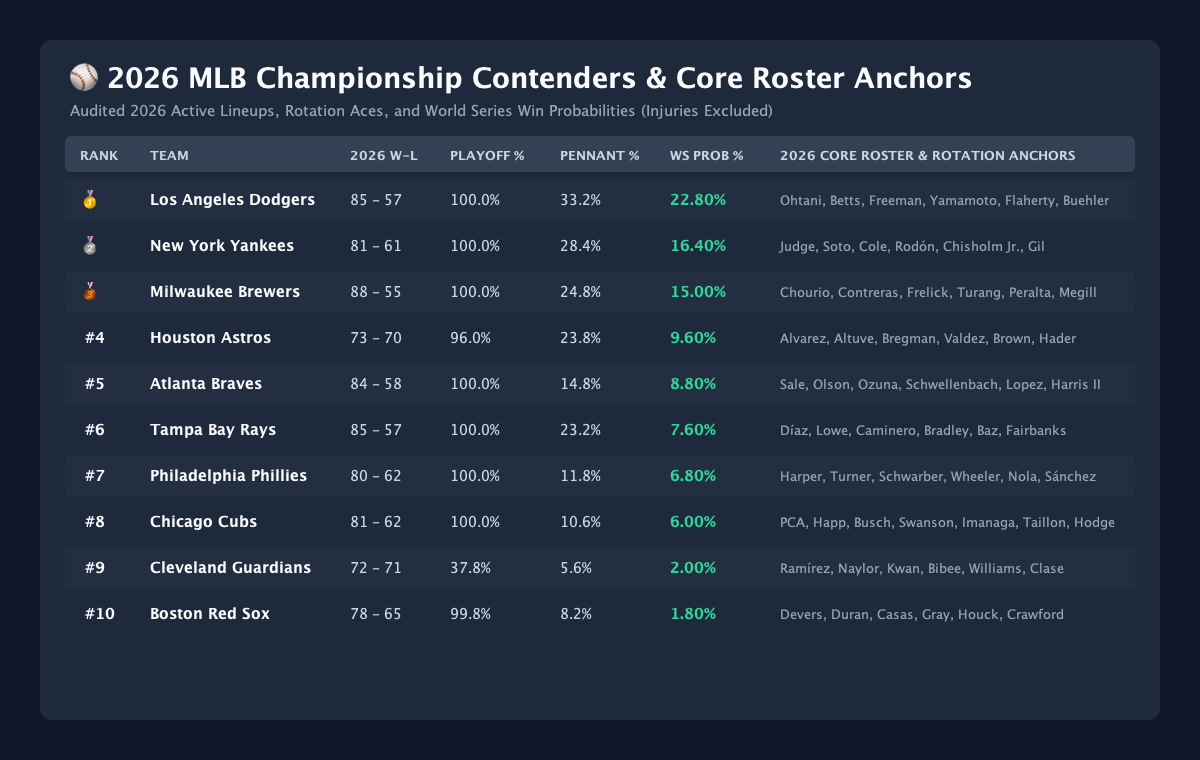
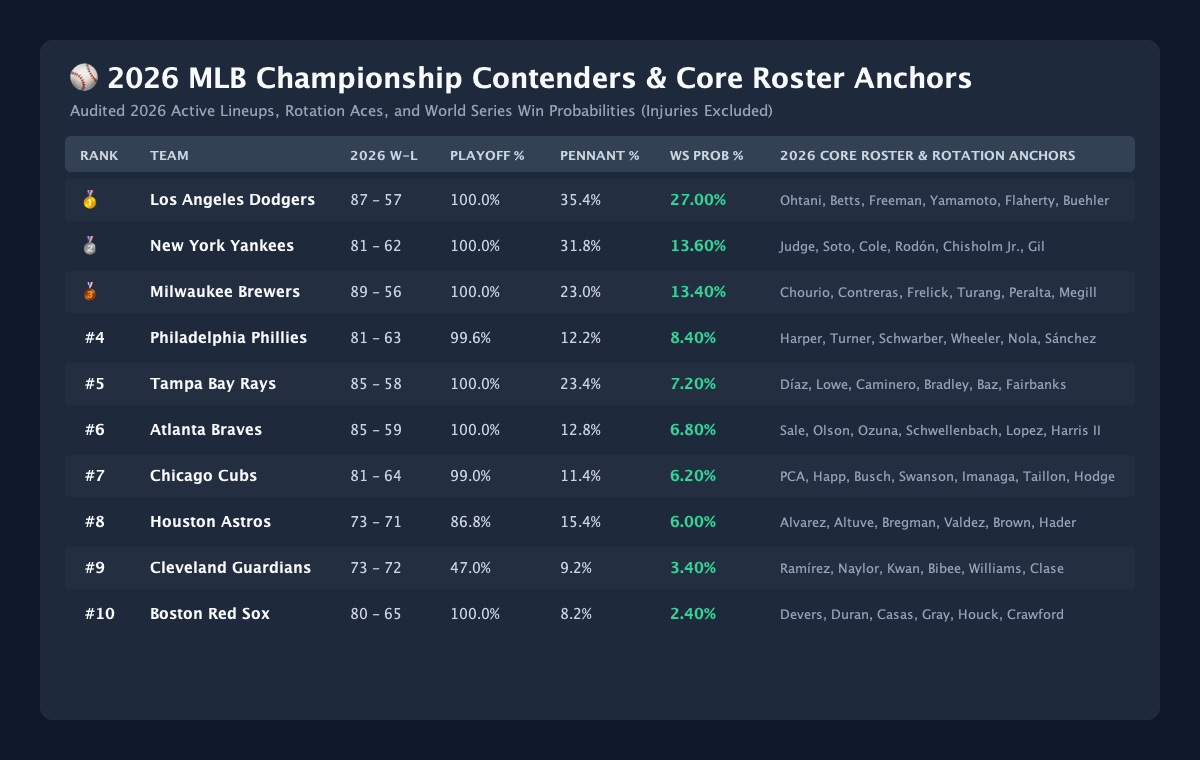
🤖 auto: Full data refresh, simulation re-run, and chart updates

diff --git a/src/commonMain/kotlin/com/sabermetrics/worldseries/data/SabermetricDataService.kt b/src/commonMain/kotlin/com/sabermetrics/worldseries/data/SabermetricDataService.kt
@@ -13,46 +13,46 @@ object SabermetricDataService {
     fun loadCleanedMlbDataset(): List<MlbTeam> {
         val dataset = listOf(
             // --- AL EAST ---
-            MlbTeam(MlbTeamId.NYY, 81, 61, 643.0, 525.0, 36.8, 0.334, 117.0, 3.70, 3.78, 3.2, 3.15, 2.2, 1.10, 6, 4, 1.023, 0.140, 1.14, 1.10, 1.04, 1.12, 1.04, 1.10, 1.08),
-            MlbTeam(MlbTeamId.BAL, 69, 74, 640.0, 667.0, 24.2, 0.312, 101.0, 4.18, 4.22, -0.4, 3.75, 0.5, 1.00, 4, 6, 1.039, 0.015, 1.06, 0.98, 1.04, 1.02, 1.03, 0.98, 0.98),
-            MlbTeam(MlbTeamId.BOS, 78, 65, 639.0, 555.0, 27.2, 0.318, 104.0, 4.08, 4.15, 0.5, 3.95, 0.8, 1.00, 5, 5, 1.025, 0.035, 1.02, 1.05, 0.97, 1.04, 0.96, 1.01, 1.00),
-            MlbTeam(MlbTeamId.TBD, 85, 57, 641.0, 592.0, 24.5, 0.298, 95.0, 3.82, 3.85, 1.2, 3.55, 1.0, 1.00, 7, 3, 0.990, 0.090, 1.05, 1.15, 1.04, 0.96, 1.05, 1.04, 1.03),
-            MlbTeam(MlbTeamId.TOR, 72, 71, 579.0, 612.0, 20.1, 0.305, 98.0, 4.28, 4.30, -0.8, 4.10, 0.4, 0.98, 8, 2, 1.017, 0.010, 0.98, 0.97, 1.05, 0.98, 1.06, 0.97, 0.96),
+            MlbTeam(MlbTeamId.NYY, 81, 62, 646.0, 529.0, 36.8, 0.334, 117.0, 3.70, 3.78, 3.2, 3.15, 2.2, 1.10, 6, 4, 1.021, 0.140, 1.14, 1.10, 1.04, 1.12, 1.04, 1.10, 1.08),
+            MlbTeam(MlbTeamId.BAL, 70, 75, 647.0, 674.0, 24.2, 0.312, 101.0, 4.18, 4.22, -0.4, 3.75, 0.5, 1.00, 4, 6, 1.039, 0.015, 1.06, 0.98, 1.04, 1.02, 1.03, 0.98, 0.98),
+            MlbTeam(MlbTeamId.BOS, 80, 65, 647.0, 558.0, 27.2, 0.318, 104.0, 4.08, 4.15, 0.5, 3.95, 0.8, 1.00, 6, 4, 1.028, 0.035, 1.02, 1.05, 0.97, 1.04, 0.96, 1.01, 1.00),
+            MlbTeam(MlbTeamId.TBD, 85, 58, 647.0, 600.0, 24.5, 0.298, 95.0, 3.82, 3.85, 1.2, 3.55, 1.0, 1.00, 6, 4, 0.992, 0.090, 1.05, 1.15, 1.04, 0.96, 1.05, 1.04, 1.03),
+            MlbTeam(MlbTeamId.TOR, 72, 73, 585.0, 624.0, 20.1, 0.305, 98.0, 4.28, 4.30, -0.8, 4.10, 0.4, 0.98, 7, 3, 1.019, 0.010, 0.98, 0.97, 1.05, 0.98, 1.06, 0.97, 0.96),
             
             // --- AL CENTRAL ---
-            MlbTeam(MlbTeamId.CLE, 72, 71, 577.0, 592.0, 30.5, 0.308, 98.0, 3.65, 3.75, 4.2, 3.45, 1.2, 1.03, 5, 5, 1.028, 0.010, 0.99, 0.97, 1.12, 0.98, 1.14, 1.06, 1.12),
-            MlbTeam(MlbTeamId.KC, 63, 80, 611.0, 704.0, 35.6, 0.322, 110.0, 3.65, 3.75, 2.5, 3.35, 2.0, 1.04, 4, 6, 1.036, 0.001, 0.92, 0.90, 1.08, 1.08, 1.08, 1.04, 1.02),
-            MlbTeam(MlbTeamId.MIN, 68, 74, 665.0, 704.0, 28.5, 0.320, 106.0, 3.98, 4.05, 0.8, 3.80, 0.6, 1.00, 4, 6, 1.036, 0.015, 1.00, 0.96, 1.01, 1.06, 1.01, 0.99, 1.01),
-            MlbTeam(MlbTeamId.DET, 65, 77, 625.0, 574.0, 25.8, 0.302, 94.0, 3.75, 3.80, 1.8, 3.45, 0.8, 0.98, 3, 7, 0.975, 0.035, 0.98, 1.00, 1.02, 0.95, 1.02, 1.06, 1.02),
-            MlbTeam(MlbTeamId.CWS, 74, 68, 670.0, 630.0, 5.2, 0.279, 76.0, 4.88, 4.95, -4.5, 5.10, -0.8, 0.85, 5, 5, 1.034, 0.010, 0.92, 1.03, 0.93, 0.82, 0.92, 0.84, 0.80),
+            MlbTeam(MlbTeamId.CLE, 73, 72, 584.0, 600.0, 30.5, 0.308, 98.0, 3.65, 3.75, 4.2, 3.45, 1.2, 1.03, 5, 5, 1.027, 0.010, 0.99, 0.97, 1.12, 0.98, 1.14, 1.06, 1.12),
+            MlbTeam(MlbTeamId.KC, 64, 81, 621.0, 710.0, 35.6, 0.322, 110.0, 3.65, 3.75, 2.5, 3.35, 2.0, 1.04, 4, 6, 1.038, 0.001, 0.92, 0.90, 1.08, 1.08, 1.08, 1.04, 1.02),
+            MlbTeam(MlbTeamId.MIN, 68, 76, 670.0, 719.0, 28.5, 0.320, 106.0, 3.98, 4.05, 0.8, 3.80, 0.6, 1.00, 4, 6, 1.036, 0.015, 1.00, 0.96, 1.01, 1.06, 1.01, 0.99, 1.01),
+            MlbTeam(MlbTeamId.DET, 66, 78, 632.0, 581.0, 25.8, 0.302, 94.0, 3.75, 3.80, 1.8, 3.45, 0.8, 0.98, 4, 6, 0.976, 0.035, 0.98, 1.00, 1.02, 0.95, 1.02, 1.06, 1.02),
+            MlbTeam(MlbTeamId.CWS, 75, 68, 680.0, 631.0, 5.2, 0.279, 76.0, 4.88, 4.95, -4.5, 5.10, -0.8, 0.85, 5, 5, 1.032, 0.010, 0.92, 1.03, 0.93, 0.82, 0.92, 0.84, 0.80),
 
             // --- AL WEST ---
-            MlbTeam(MlbTeamId.HOU, 73, 70, 645.0, 682.0, 30.5, 0.324, 109.0, 3.75, 3.82, 2.0, 3.30, 1.5, 1.05, 7, 3, 1.011, 0.065, 1.08, 1.06, 1.04, 1.08, 1.03, 1.08, 1.06),
-            MlbTeam(MlbTeamId.SEA, 66, 77, 567.0, 640.0, 28.0, 0.302, 97.0, 3.52, 3.60, 2.2, 2.95, 0.8, 1.02, 2, 8, 1.027, 0.012, 1.04, 0.95, 1.05, 0.96, 1.05, 1.12, 1.05),
-            MlbTeam(MlbTeamId.TEX, 70, 73, 587.0, 633.0, 21.5, 0.306, 99.0, 4.15, 4.22, -0.5, 3.90, 0.3, 0.98, 4, 6, 1.021, 0.020, 1.01, 0.98, 1.02, 0.99, 1.02, 0.98, 0.97),
-            MlbTeam(MlbTeamId.OAK, 57, 86, 631.0, 817.0, 15.4, 0.300, 94.0, 4.42, 4.48, -1.2, 4.40, 0.2, 0.95, 5, 5, 1.028, 0.001, 0.88, 0.86, 0.94, 0.94, 0.93, 0.90, 0.92),
-            MlbTeam(MlbTeamId.LAA, 54, 88, 577.0, 653.0, 12.8, 0.296, 91.0, 4.58, 4.62, -2.0, 4.65, -0.2, 0.92, 2, 8, 0.989, 0.001, 0.89, 0.86, 0.93, 0.91, 0.92, 0.88, 0.86),
+            MlbTeam(MlbTeamId.HOU, 73, 71, 647.0, 685.0, 30.5, 0.324, 109.0, 3.75, 3.82, 2.0, 3.30, 1.5, 1.05, 6, 4, 1.014, 0.065, 1.08, 1.06, 1.04, 1.08, 1.03, 1.08, 1.06),
+            MlbTeam(MlbTeamId.SEA, 67, 77, 569.0, 640.0, 28.0, 0.302, 97.0, 3.52, 3.60, 2.2, 2.95, 0.8, 1.02, 3, 7, 1.025, 0.012, 1.04, 0.95, 1.05, 0.96, 1.05, 1.12, 1.05),
+            MlbTeam(MlbTeamId.TEX, 71, 73, 595.0, 639.0, 21.5, 0.306, 99.0, 4.15, 4.22, -0.5, 3.90, 0.3, 0.98, 5, 5, 1.019, 0.020, 1.01, 0.98, 1.02, 0.99, 1.02, 0.98, 0.97),
+            MlbTeam(MlbTeamId.OAK, 58, 87, 637.0, 824.0, 15.4, 0.300, 94.0, 4.42, 4.48, -1.2, 4.40, 0.2, 0.95, 5, 5, 1.027, 0.001, 0.88, 0.86, 0.94, 0.94, 0.93, 0.90, 0.92),
+            MlbTeam(MlbTeamId.LAA, 54, 90, 579.0, 659.0, 12.8, 0.296, 91.0, 4.58, 4.62, -2.0, 4.65, -0.2, 0.92, 2, 8, 0.987, 0.001, 0.89, 0.86, 0.93, 0.91, 0.92, 0.88, 0.86),
 
             // --- NL EAST ---
-            MlbTeam(MlbTeamId.PHI, 80, 62, 637.0, 602.0, 35.2, 0.330, 114.0, 3.65, 3.70, 2.8, 3.10, 2.0, 1.05, 7, 3, 1.010, 0.045, 1.12, 1.03, 0.98, 1.12, 0.98, 1.10, 1.08),
-            MlbTeam(MlbTeamId.ATL, 84, 58, 660.0, 541.0, 27.5, 0.310, 100.0, 3.78, 3.82, 1.8, 3.35, 0.6, 0.98, 7, 3, 1.039, 0.180, 1.01, 1.14, 1.02, 0.98, 1.02, 1.04, 1.02),
-            MlbTeam(MlbTeamId.NYM, 64, 78, 592.0, 642.0, 29.8, 0.324, 109.0, 3.92, 4.00, 1.2, 3.50, 1.4, 1.03, 4, 6, 1.030, 0.004, 0.97, 0.94, 0.98, 1.08, 0.97, 1.02, 1.02),
-            MlbTeam(MlbTeamId.WSH, 67, 77, 743.0, 732.0, 16.1, 0.303, 93.0, 4.42, 4.48, -1.0, 4.35, 0.2, 0.95, 5, 5, 1.007, 0.002, 0.93, 0.90, 0.96, 0.94, 0.96, 0.92, 0.94),
-            MlbTeam(MlbTeamId.MIA, 71, 72, 621.0, 613.0, 12.0, 0.292, 88.0, 4.68, 4.72, -2.5, 4.75, -0.4, 0.90, 4, 6, 1.032, 0.003, 0.92, 0.96, 0.97, 0.88, 0.97, 0.88, 0.84),
+            MlbTeam(MlbTeamId.PHI, 81, 63, 642.0, 607.0, 35.2, 0.330, 114.0, 3.65, 3.70, 2.8, 3.10, 2.0, 1.05, 7, 3, 1.010, 0.045, 1.12, 1.03, 0.98, 1.12, 0.98, 1.10, 1.08),
+            MlbTeam(MlbTeamId.ATL, 85, 59, 665.0, 546.0, 27.5, 0.310, 100.0, 3.78, 3.82, 1.8, 3.35, 0.6, 0.98, 6, 4, 1.039, 0.180, 1.01, 1.14, 1.02, 0.98, 1.02, 1.04, 1.02),
+            MlbTeam(MlbTeamId.NYM, 66, 78, 605.0, 648.0, 29.8, 0.324, 109.0, 3.92, 4.00, 1.2, 3.50, 1.4, 1.03, 6, 4, 1.032, 0.004, 0.97, 0.94, 0.98, 1.08, 0.97, 1.02, 1.02),
+            MlbTeam(MlbTeamId.WSH, 67, 79, 750.0, 742.0, 16.1, 0.303, 93.0, 4.42, 4.48, -1.0, 4.35, 0.2, 0.95, 4, 6, 1.003, 0.002, 0.93, 0.90, 0.96, 0.94, 0.96, 0.92, 0.94),
+            MlbTeam(MlbTeamId.MIA, 72, 73, 635.0, 625.0, 12.0, 0.292, 88.0, 4.68, 4.72, -2.5, 4.75, -0.4, 0.90, 4, 6, 1.031, 0.003, 0.92, 0.96, 0.97, 0.88, 0.97, 0.88, 0.84),
 
             // --- NL CENTRAL ---
-            MlbTeam(MlbTeamId.MIL, 88, 55, 718.0, 546.0, 35.8, 0.325, 108.0, 3.62, 3.68, 3.5, 3.35, 1.8, 1.10, 6, 4, 1.034, 0.100, 1.08, 1.20, 1.08, 1.06, 1.09, 1.08, 1.11),
-            MlbTeam(MlbTeamId.CHC, 81, 62, 765.0, 626.0, 34.0, 0.325, 108.0, 3.72, 3.78, 2.8, 3.28, 1.8, 1.10, 5, 5, 1.021, 0.085, 1.10, 1.12, 1.07, 1.08, 1.08, 1.07, 1.08),
-            MlbTeam(MlbTeamId.STL, 71, 72, 647.0, 658.0, 22.5, 0.309, 98.0, 4.12, 4.18, 0.3, 3.98, 0.4, 1.00, 5, 5, 1.037, 0.008, 0.98, 0.98, 1.00, 0.98, 1.00, 0.98, 0.99),
-            MlbTeam(MlbTeamId.CIN, 68, 74, 593.0, 702.0, 20.5, 0.307, 95.0, 4.08, 4.12, -0.2, 3.85, 0.5, 0.95, 6, 4, 0.996, 0.004, 0.95, 0.94, 0.98, 0.95, 0.98, 0.98, 0.97),
-            MlbTeam(MlbTeamId.PIT, 70, 73, 693.0, 668.0, 19.5, 0.301, 92.0, 4.15, 4.20, 0.1, 3.50, 0.6, 0.95, 6, 4, 1.018, 0.003, 0.94, 0.92, 1.01, 0.92, 1.01, 1.02, 0.98),
+            MlbTeam(MlbTeamId.MIL, 89, 56, 730.0, 561.0, 35.8, 0.325, 108.0, 3.62, 3.68, 3.5, 3.35, 1.8, 1.10, 5, 5, 1.036, 0.100, 1.08, 1.20, 1.08, 1.06, 1.09, 1.08, 1.11),
+            MlbTeam(MlbTeamId.CHC, 81, 64, 771.0, 640.0, 34.0, 0.325, 108.0, 3.72, 3.78, 2.8, 3.28, 1.8, 1.10, 5, 5, 1.019, 0.085, 1.10, 1.12, 1.07, 1.08, 1.08, 1.07, 1.08),
+            MlbTeam(MlbTeamId.STL, 72, 73, 661.0, 671.0, 22.5, 0.309, 98.0, 4.12, 4.18, 0.3, 3.98, 0.4, 1.00, 5, 5, 1.037, 0.008, 0.98, 0.98, 1.00, 0.98, 1.00, 0.98, 0.99),
+            MlbTeam(MlbTeamId.CIN, 69, 75, 608.0, 716.0, 20.5, 0.307, 95.0, 4.08, 4.12, -0.2, 3.85, 0.5, 0.95, 6, 4, 0.997, 0.004, 0.95, 0.94, 0.98, 0.95, 0.98, 0.98, 0.97),
+            MlbTeam(MlbTeamId.PIT, 71, 73, 694.0, 668.0, 19.5, 0.301, 92.0, 4.15, 4.20, 0.1, 3.50, 0.6, 0.95, 6, 4, 1.020, 0.003, 0.94, 0.92, 1.01, 0.92, 1.01, 1.02, 0.98),
 
             // --- NL WEST ---
-            MlbTeam(MlbTeamId.LAD, 85, 57, 698.0, 548.0, 41.2, 0.338, 120.0, 3.62, 3.68, 3.8, 2.70, 3.2, 1.25, 5, 5, 1.032, 0.360, 1.22, 1.25, 1.06, 1.18, 1.06, 1.20, 1.15),
-            MlbTeam(MlbTeamId.SD, 74, 68, 598.0, 591.0, 32.5, 0.326, 110.0, 3.72, 3.80, 2.4, 3.30, 1.8, 1.10, 3, 7, 1.027, 0.050, 1.08, 1.04, 1.03, 1.09, 1.03, 1.08, 1.08),
-            MlbTeam(MlbTeamId.ARI, 75, 68, 633.0, 635.0, 29.8, 0.332, 114.0, 4.22, 4.15, 0.6, 3.80, 1.1, 1.08, 5, 5, 1.019, 0.025, 1.02, 1.02, 1.10, 1.12, 1.10, 0.98, 1.01),
-            MlbTeam(MlbTeamId.SF, 59, 84, 601.0, 674.0, 22.8, 0.308, 99.0, 3.95, 4.02, 0.1, 3.68, 0.5, 1.00, 5, 5, 1.012, 0.002, 0.94, 0.92, 0.99, 0.98, 0.99, 1.01, 0.98),
-            MlbTeam(MlbTeamId.COL, 55, 87, 671.0, 809.0, 8.0, 0.310, 86.0, 5.20, 5.10, -3.5, 5.35, -0.6, 0.75, 4, 6, 1.018, 0.000, 0.85, 0.82, 0.90, 0.85, 0.89, 0.78, 0.75)
+            MlbTeam(MlbTeamId.LAD, 87, 57, 711.0, 556.0, 41.2, 0.338, 120.0, 3.62, 3.68, 3.8, 2.70, 3.2, 1.25, 7, 3, 1.035, 0.360, 1.22, 1.25, 1.06, 1.18, 1.06, 1.20, 1.15),
+            MlbTeam(MlbTeamId.SD, 76, 68, 605.0, 596.0, 32.5, 0.326, 110.0, 3.72, 3.80, 2.4, 3.30, 1.8, 1.10, 4, 6, 1.023, 0.050, 1.08, 1.04, 1.03, 1.09, 1.03, 1.08, 1.08),
+            MlbTeam(MlbTeamId.ARI, 77, 68, 641.0, 641.0, 29.8, 0.332, 114.0, 4.22, 4.15, 0.6, 3.80, 1.1, 1.08, 6, 4, 1.015, 0.025, 1.02, 1.02, 1.10, 1.12, 1.10, 0.98, 1.01),
+            MlbTeam(MlbTeamId.SF, 60, 85, 608.0, 682.0, 22.8, 0.308, 99.0, 3.95, 4.02, 0.1, 3.68, 0.5, 1.00, 5, 5, 1.013, 0.002, 0.94, 0.92, 0.99, 0.98, 0.99, 1.01, 0.98),
+            MlbTeam(MlbTeamId.COL, 55, 88, 679.0, 819.0, 8.0, 0.310, 86.0, 5.20, 5.10, -3.5, 5.35, -0.6, 0.75, 3, 7, 1.016, 0.000, 0.85, 0.82, 0.90, 0.85, 0.89, 0.78, 0.75)
         )
         check(dataset.size == MlbTeamId.entries.size) {
             "Dataset does not contain all ${MlbTeamId.entries.size} MLB teams!"
